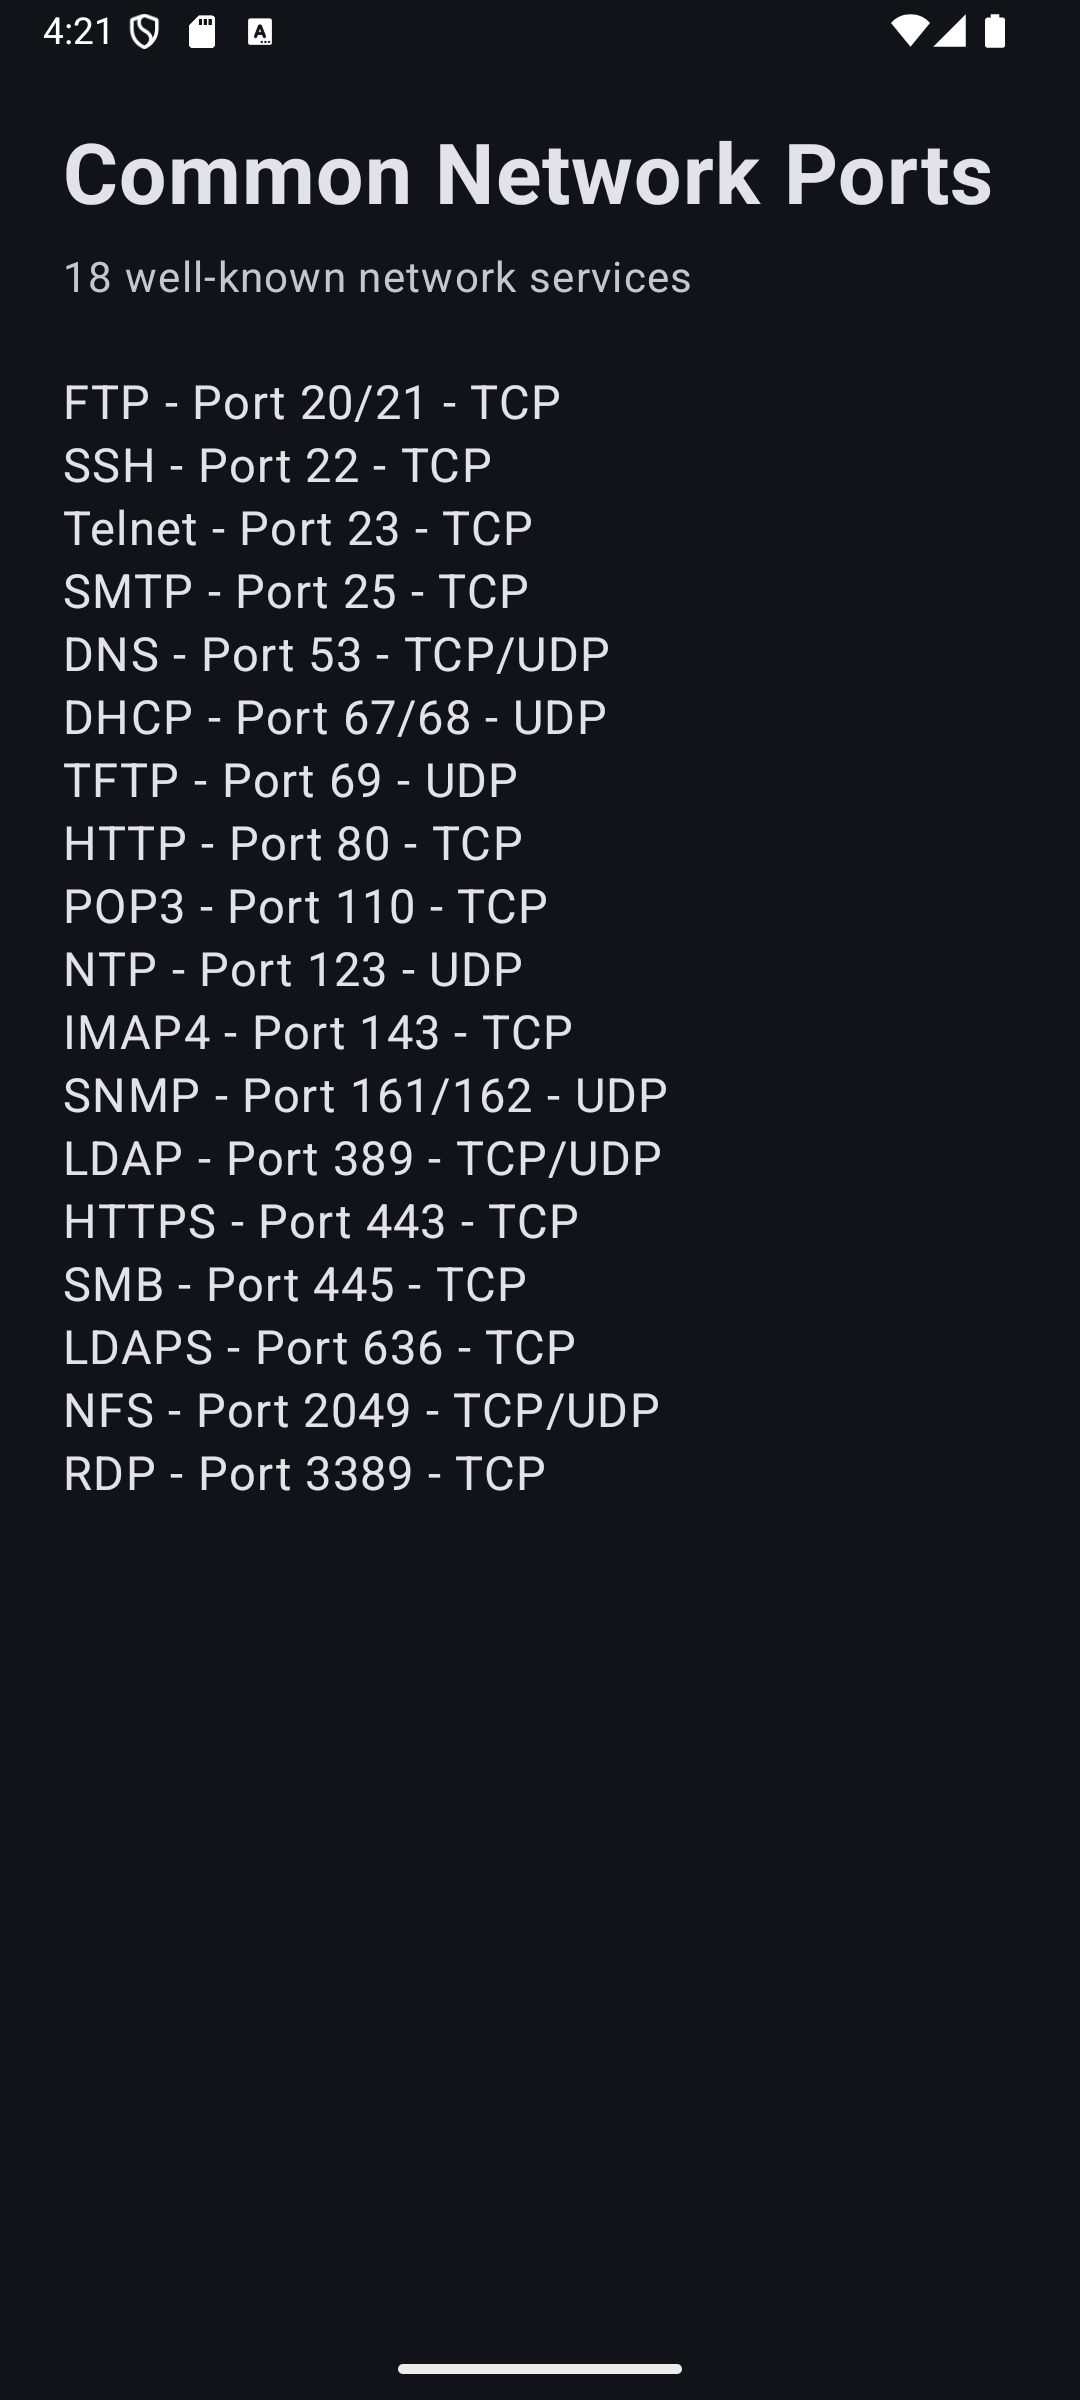
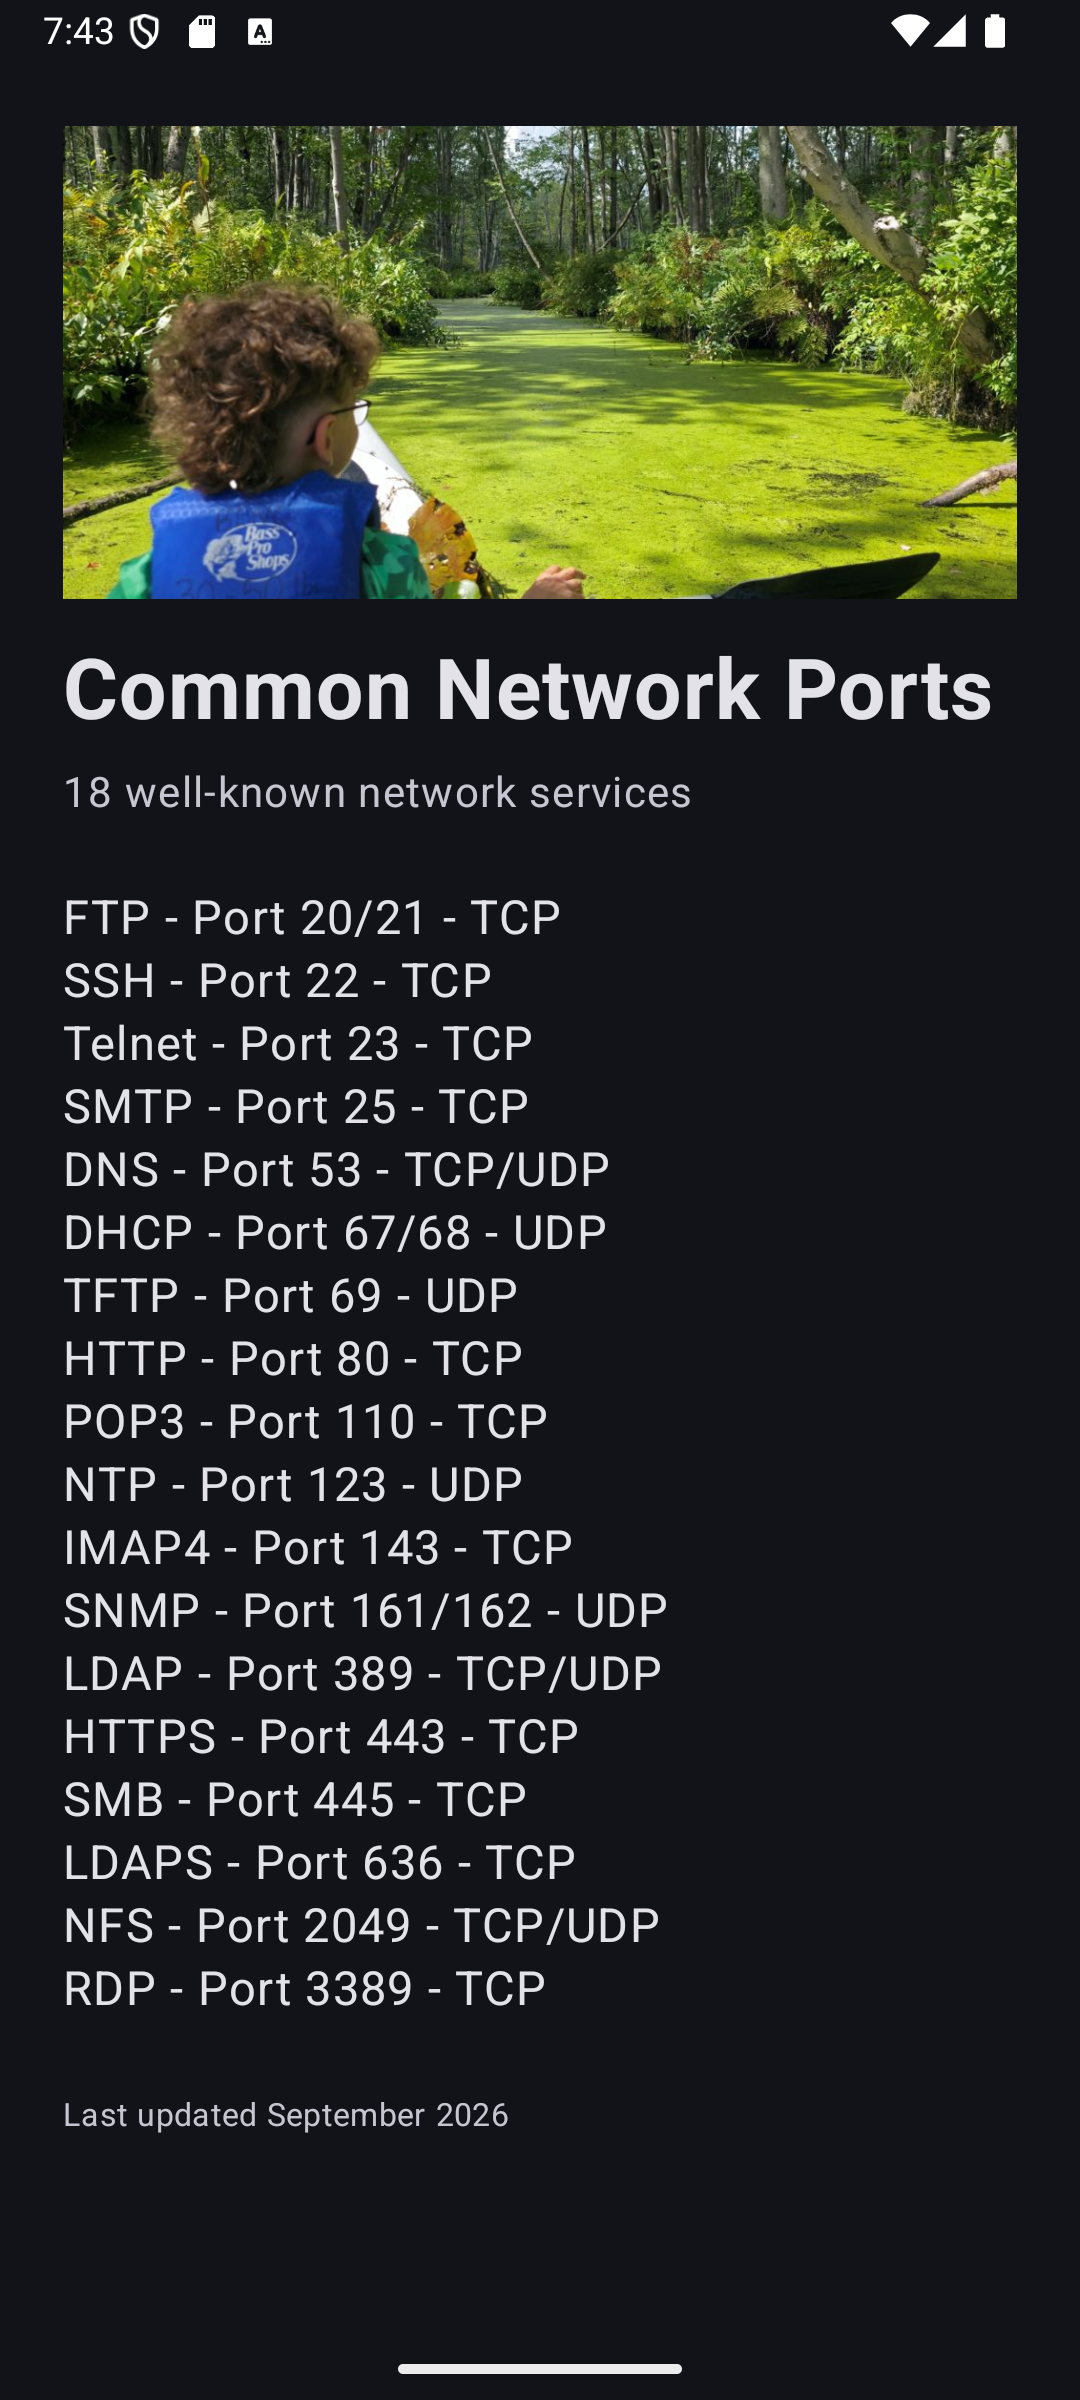
Lab 6 done

Changed region(s): [[0.0306, 0.0, 0.9472, 0.8438], [0.0611, 0.875, 0.4583, 0.9062]]

diff --git a/app/src/main/java/edu/lemoyne/campusapp/MainActivity.kt b/app/src/main/java/edu/lemoyne/campusapp/MainActivity.kt
@@ -1,19 +1,25 @@
 package edu.lemoyne.campusapp
 
+import android.content.res.Configuration
 import android.os.Bundle
 import androidx.activity.ComponentActivity
 import androidx.activity.compose.setContent
 import androidx.activity.enableEdgeToEdge
+import androidx.compose.foundation.Image
 import androidx.compose.foundation.layout.Column
 import androidx.compose.foundation.layout.Spacer
 import androidx.compose.foundation.layout.fillMaxSize
+import androidx.compose.foundation.layout.fillMaxWidth
 import androidx.compose.foundation.layout.height
 import androidx.compose.foundation.layout.padding
 import androidx.compose.material3.MaterialTheme
 import androidx.compose.material3.Scaffold
+import androidx.compose.material3.Surface
 import androidx.compose.material3.Text
 import androidx.compose.runtime.Composable
 import androidx.compose.ui.Modifier
+import androidx.compose.ui.layout.ContentScale
+import androidx.compose.ui.res.painterResource
 import androidx.compose.ui.text.font.FontWeight
 import androidx.compose.ui.tooling.preview.Preview
 import androidx.compose.ui.unit.dp
@@ -33,6 +39,7 @@ class MainActivity : ComponentActivity() {
         }
     }
 }
+
 // --- Class 6 ~ Step 1: my own screen --
 @Composable
 fun HomeScreen(modifier: Modifier = Modifier) {
@@ -42,6 +49,18 @@ fun HomeScreen(modifier: Modifier = Modifier) {
             .fillMaxSize()
             .padding(24.dp)
     ) {
+        // --- Lab 6 ~ task 3: a picture of my own ---
+        Image(
+            painter = painterResource(id = R.drawable.koenkayakesmall),
+            contentDescription = "Kayake to your proper port",
+            contentScale = ContentScale.Crop,
+            modifier = Modifier
+                .fillMaxWidth()
+                .height(180.dp)
+        )
+
+        Spacer(modifier = Modifier.height(16.dp))
+
         // --- Class 6 ~ Step 4: real styling ---
         Text(
             text = "Common Network Ports",
@@ -78,8 +97,18 @@ fun HomeScreen(modifier: Modifier = Modifier) {
         Text(text = "NFS - Port 2049 - TCP/UDP", fontSize = 18.sp)
         Text(text = "RDP - Port 3389 - TCP", fontSize = 18.sp)
 
+        // --- Lab 6 ~ Task 2: Footer ---
+        Spacer(modifier = Modifier.height(24.dp))
+
+        Text(
+            text = "Last updated September 2026",
+            fontSize = 12.sp,
+            color = MaterialTheme.colorScheme.onSurfaceVariant
+        )
+
     }
 }
+
 // --- Class 6 ~ Step 2: preview, no build required ---
 @Preview(showBackground = true)
 @Composable
@@ -88,3 +117,15 @@ fun HomeScreenPreview() {
         HomeScreen()
     }
 }
+
+// --- Class 6 ~ Task: 4 dark mode preview ---
+@Preview(showBackground = true, uiMode = Configuration.UI_MODE_NIGHT_YES)
+@Composable
+fun HomeScreenDarkPreview() {
+    CampusAppTheme {
+        Surface {
+            HomeScreen()
+        }
+    }
+}
+

diff --git a/NOTES.md b/NOTES.md
@@ -1,3 +1,6 @@
 1) less than a minute.
 2) the background changed to black.
 3) everything that we've gone over makes sense.
+
+Week 5, Friday.
+1) Swapping .fillMaxWidth for .fillMaxSize made the image take over the whole screen. 
